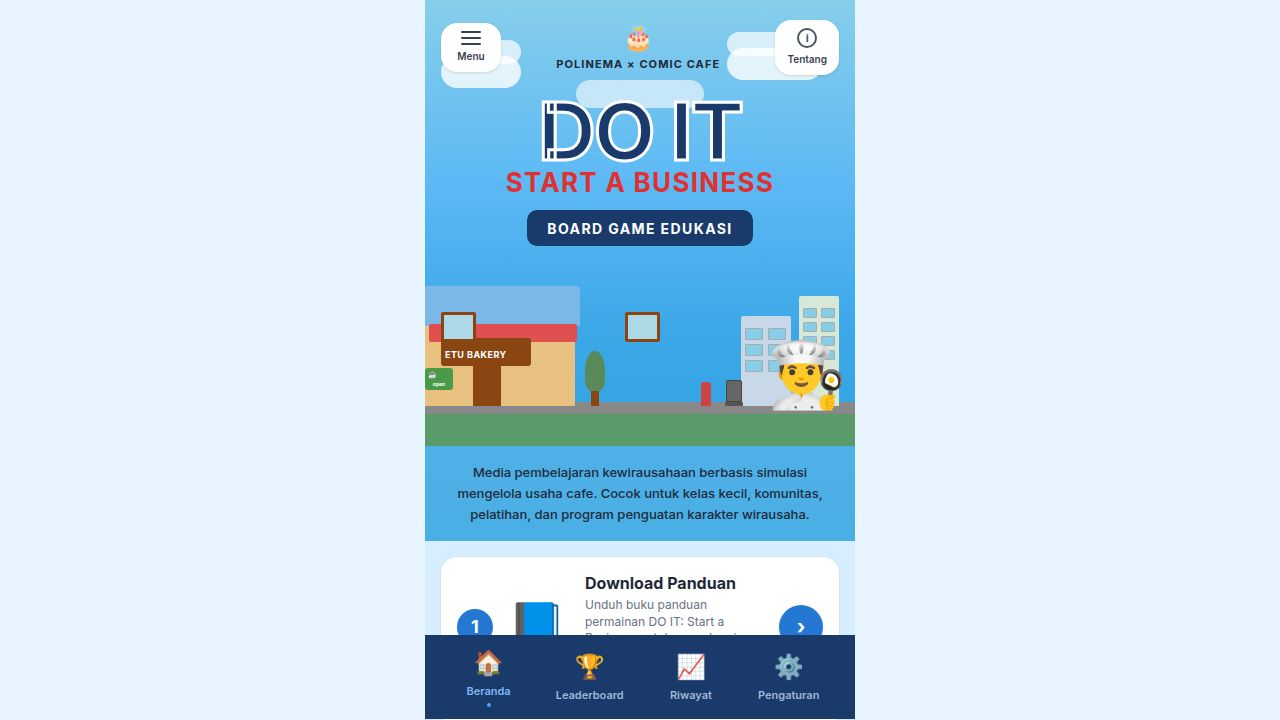
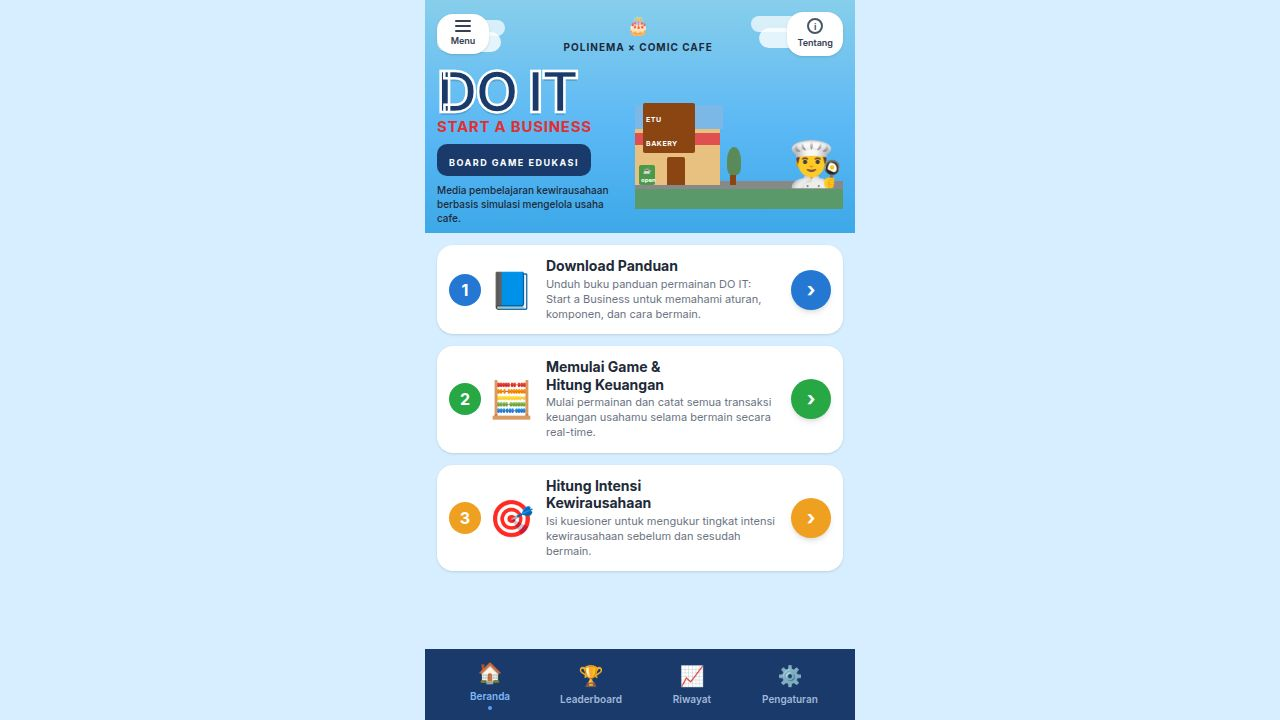
Improve bidding process for expanding cafes
Adjusted open bid logic to auto-accept in solo games and changed response validation to a majority-based decision.

Replit-Commit-Author: Agent
Replit-Commit-Session-Id: e2d69835-6f24-47b4-8bac-c0e485549da4
Replit-Commit-Checkpoint-Type: full_checkpoint
Replit-Commit-Event-Id: 0aaeac8f-e385-4328-ad3b-8809bec03b79
Replit-Commit-Screenshot-Url: https://storage.googleapis.com/screenshot-production-us-central1/9f0d281a-781a-4426-b563-8a225f44f57f/e2d69835-6f24-47b4-8bac-c0e485549da4/2AKyjLx
Replit-Helium-Checkpoint-Created: true

Changed region(s): [[0.3125, 0.0, 0.6875, 1.0]]

diff --git a/artifacts/api-server/src/routes/rooms.ts b/artifacts/api-server/src/routes/rooms.ts
@@ -493,17 +493,30 @@ router.post("/rooms/:code/action", (req, res) => {
       const oPrice = Number(bidPrice) || bPrice;
       if (oPrice < bPrice) { res.status(400).json({ error: `Min bid: Rp.${bPrice}` }); return; }
       if (oPrice > buyoutP) { res.status(400).json({ error: `Max bid: Rp.${buyoutP}` }); return; }
-      // Store specs in emptySlot (provisional, finalized if bid accepted)
       emptySlot.bidPrice = bPrice; emptySlot.buyoutPrice = buyoutP;
       emptySlot.menuItems = expandSpecs.menuItems || [];
       emptySlot.seats = expandSpecs.seats || 2;
       emptySlot.name = expandSpecs.name || `Kafe ${targetArea} #${emptySlot.slotIndex}`;
-      room.pendingBid = {
-        cafeId: emptySlot.id, bidderId: playerId, cafeName: emptySlot.name,
-        openPrice: oPrice, responses: [], status: "pending",
-      };
-      currentPlayer.lastAction = action;
-      res.json({ ok: true, pendingBid: true }); return;
+
+      const nonBidders = room.players.filter(p => p.id !== playerId);
+      if (nonBidders.length === 0) {
+        // Solo / tidak ada pemain lain → auto-accept langsung
+        if (currentPlayer.money < oPrice) {
+          const diff = oPrice - currentPlayer.money;
+          currentPlayer.hutang += diff; currentPlayer.kap.bersediaRisiko = Math.min(7, currentPlayer.kap.bersediaRisiko + 1);
+          currentPlayer.money = 0;
+        } else { currentPlayer.money -= oPrice; }
+        emptySlot.ownerId = playerId; emptySlot.isSetup = true;
+        addTx(currentPlayer, `Open Bid berhasil: ${emptySlot.name}`, oPrice, "pengeluaran", room.currentRonde);
+        // fall through to normal turn advance + internalLocus below
+      } else {
+        room.pendingBid = {
+          cafeId: emptySlot.id, bidderId: playerId, cafeName: emptySlot.name,
+          openPrice: oPrice, responses: [], status: "pending",
+        };
+        currentPlayer.lastAction = action;
+        res.json({ ok: true, pendingBid: true }); return;
+      }
     }
 
     currentPlayer.kap.internalLocus = Math.min(7, currentPlayer.kap.internalLocus + 1);
@@ -550,11 +563,12 @@ router.post("/rooms/:code/bid-respond", (req, res) => {
 
   if (allResponded) {
     const bid = room.pendingBid!;
-    const allAccepted = bid.responses.every(r => r.accepted);
+    const acceptCount = bid.responses.filter(r => r.accepted).length;
+    const majority = nonBidders.length === 0 || acceptCount > nonBidders.length / 2;
     const cafe = room.cafes.find(c => c.id === bid.cafeId)!;
     const bidder = room.players.find(p => p.id === bid.bidderId)!;
 
-    if (allAccepted) {
+    if (majority) {
       if (bidder.money < bid.openPrice) {
         const diff = bid.openPrice - bidder.money;
         bidder.hutang += diff; bidder.kap.bersediaRisiko = Math.min(7, bidder.kap.bersediaRisiko + 1);